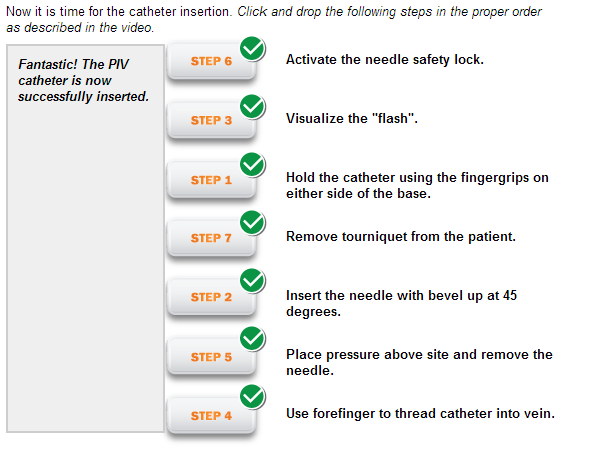
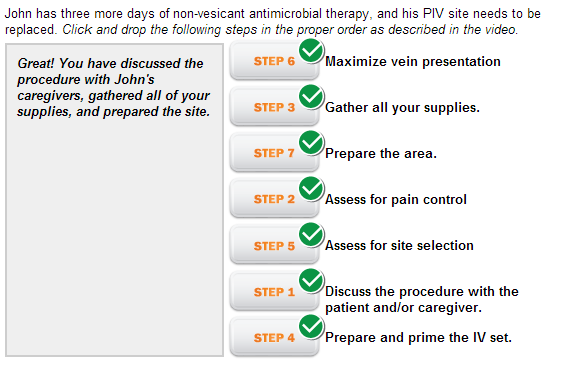
Updating the test to be more usable

Changed region(s): [[0.0, 0.0, 0.9294, 0.9588]]

diff --git a/index.html b/index.html
@@ -6,30 +6,47 @@
         <title>Untitled</title>
         <script src="media/jquery-1.8.min.js" type="text/javascript" charset="utf-8" ></script>
         <script src="media/jquery-ui.custom.min.js" type="text/javascript" charset="utf-8" ></script>
-
-         <link rel="stylesheet" type="text/css" href="media/main.css"/>
+        <link rel="stylesheet" type="text/css" href="media/main.css"/>
         <link href='http://fonts.googleapis.com/css?family=Candal' rel='stylesheet' type='text/css'>
         <script>
-    $(function() {
-   var selectedAnswers = [0,0,0,0,0,0,0], 
-     correctAnswers = [6, 3, 1, 7, 2, 5, 4];
-     selectedQuestion = null;
-   var $sel = {
-     answers: $('#a1, #a2, #a3, #a4, #a5, #a6, #a7'),
-     questions: $('#q1, #q2, #q3, #q4, #q5, #q6, #q7'),
-     ciImage : $('.cwImage1, .cwImage2, .cwImage3, .cwImage4, .cwImage5, .cwImage6, .cwImage7'), 
-     allQuestions: $('.questions'),
-     explanation: $('.explanation'),
-     principles: $('.principles'),
-     exampleContent: $('#exampleContent'),
-     answersCorrect : $('#answersCorrect')
-   }
-
-   $sel.answers.draggable({
-     revert: "invalid"
-     ,start: function(event, ui) {
+  $(function() {
+    var selectedAnswers = [0, 0, 0, 0, 0, 0, 0],
+      correctAnswers = [6, 3, 7, 2, 5, 1, 4],
+      selectedQuestion = null;
+    var $sel = {
+      answers: $('#a1, #a2, #a3, #a4, #a5, #a6, #a7'),
+      questions: $('#q1, #q2, #q3, #q4, #q5, #q6, #q7'),
+      ciImage: $('.cwImage1, .cwImage2, .cwImage3, .cwImage4, .cwImage5, .cwImage6, .cwImage7'),
+      allQuestions: $('.questions'),
+      explanation: $('.explanation'),
+      principles: $('.principles'),
+      exampleContent: $('#exampleContent'),
+      answersCorrect: $('#answersCorrect'),
+      correct: $('#correct'),
+      incorrect: $('#incorrect')
+    }
+    $sel.questions.droppable({
+      hoverClass: 'dropAnswerActive',
+      tolerance: "intersect",
+      accept: $sel.answers,
+      drop: function(event, ui) {
+        ui.helper.removeAttr('dropped', true);
+        selectedQuestion = null;
+        grade(ui.helper, $(this));
+        if(!ui.draggable.data("originalPosition")) {
+          ui.draggable.data("originalPosition", ui.draggable.data("draggable").originalPosition);
+        }
+      },
+      out: function(event, ui) {
+        ui.helper.attr('dropped', true);
+      }
+    });
+    $sel.answers.draggable({
+      revert: "invalid",
+      start: function(event, ui) {
+        // ui.helper.attr('dropped', false);
         var answerNumber = parseInt(ui.helper.attr("number"));
-        for(var s=0; s < selectedAnswers.length; s++) {
+        for(var s = 0; s < selectedAnswers.length; s++) {
           if(selectedAnswers[s] == answerNumber) {
             selectedQuestion = s;
             break;
@@ -37,76 +54,95 @@
         }
         if(selectedQuestion != null) {
           selectedAnswers[selectedQuestion] = 0;
-          $('.cwImage' + (selectedQuestion+1)).removeClass('wrongImage').removeClass('correctImage');
+          $('.cwImage' + (selectedQuestion + 1)).removeClass('wrongImage').removeClass('correctImage');
           $sel.questions.eq(selectedQuestion).droppable('option', 'accept', $sel.answers)
         }
-     }
-     ,stop: function(event, ui) {
-//      console.log("stop")
-        if(selectedQuestion != null) {
-          selectedAnswers[selectedQuestion] = parseInt(ui.helper.attr("number"));
-          grade(ui.helper,  $sel.questions.eq(selectedQuestion));
-        }
-     }
-   });
-
-   $sel.questions.droppable({
-     hoverClass: 'dropAnswerActive',
-     tolerance: "intersect",
-     accept: $sel.answers,
-     drop: function(event, ui) {
-      //console.log("drop")
-      selectedQuestion = null;
-      grade(ui.helper, $(this));
-     }
-   });
-
-   var grade = function($button, $question) {
-    var selectedAnswer = parseInt($button.attr('number'));
-    var answerPosition = parseInt($question.attr('number')) - 1;
-
-    selectedAnswers[answerPosition] = selectedAnswer;
-    $question.droppable('option', 'accept', null);
-
-    // insert positioning
-    $button.offset({
-      top: $question.offset().top - 5,
-      left: $question.offset().left - 8
-    });
-
-    var correctAnswersCount = 0, notAllCorrect = 0;
-    for(var a = 0; a < selectedAnswers.length; a++) {
-      // if question has a answer
-      if(selectedAnswers[a] != 0) {
-        // if answer is correct
-        if(selectedAnswers[a] === correctAnswers[a]) {
-          // turn on icon
-          $('.cwImage' + (a+1)).removeClass('wrongImage').addClass('correctImage');
-          // increment correct answer counter
-          correctAnswersCount++;
-          notAllCorrect++;
-          // if correct answer is also the currently selected button
-          if(selectedAnswer === selectedAnswers[a]) {
-            // prevent from further dragging
-            $button.draggable('disable');
+      },
+      stop: function(event, ui) {
+        if($(this).attr("dropped")) {
+          if(selectedQuestion != null) {
+            selectedAnswers[selectedQuestion] = parseInt(ui.helper.attr("number"));
+            grade(ui.helper, $sel.questions.eq(selectedQuestion));
           }
-        } else {
-          $('.cwImage' + (a+1)).removeClass('correctImage').addClass('wrongImage');
-          notAllCorrect++;
         }
       }
-    }
-    if(correctAnswersCount === 7) {
-      $sel.answersCorrect.show();
-    }
-// if(notAllCorrect === 7){location.reload();}
-  }
- });
+    });
+    var grade = function($button, $question) {
+        var selectedAnswer = parseInt($button.attr('number'));
+        var answerPosition = parseInt($question.attr('number')) - 1;
+        selectedAnswers[answerPosition] = selectedAnswer;
+        $question.droppable('option', 'accept', null);
+        // insert positioning
+        $button.offset({
+          top: $question.offset().top - 5,
+          left: $question.offset().left - 8
+        });
+        var correctAnswersCount = 0,
+          answeredCount = 0;
+        for(var a = 0; a < selectedAnswers.length; a++) {
+          // if question has a answer
+          if(selectedAnswers[a] != 0) {
+            // if answer is correct
+            answeredCount++;
+            if(selectedAnswers[a] === correctAnswers[a]) {
+              // turn on icon
+              $('.cwImage' + (a + 1)).removeClass('wrongImage').addClass('correctImage');
+              // increment correct answer counter
+              correctAnswersCount++;
+              // if correct answer is also the currently selected button
+              if(selectedAnswer === selectedAnswers[a]) {
+                // prevent from further dragging
+                $button.draggable('disable');
+              }
+            } else {
+              $('.cwImage' + (a + 1)).removeClass('correctImage').addClass('wrongImage');
+            }
+          }
+        }
+        if(correctAnswersCount === 7) {
+          $sel.answersCorrect.show();
+          $sel.correct.show();
+        } else if(answeredCount === 7) {
+          // show reset message
+          $sel.answersCorrect.show();
+          $sel.incorrect.show();
+        }
+      }
+      //This function is used to revert/animate the steps back to there orignal location
+    var revertDraggable = function($selector) {
+        $selector.each(function() {
+          var $this = $(this),
+            position = $this.data("originalPosition");
+          if(position) {
+            $this.animate({
+              left: position.left,
+              top: position.top
+            }, 500, function() {
+              $this.data("originalPosition", null);
+            });
+          }
+        });
+      }
+    $('#reset').click(function() {
+      $sel.answersCorrect.hide();
+      $sel.incorrect.hide();
+      //Remove the correct incorrect images
+      $sel.ciImage.removeClass('correctImage').removeClass('wrongImage');
+      // Move buttons back to their original location
+      revertDraggable($sel.answers);
+      // Set all buttons's draggable = true
+      $sel.answers.draggable("option", "disabled", false);
+      // Reset all selectedAnswers = 0
+      selectedAnswers = [0, 0, 0, 0, 0, 0, 0];
+      //Allow the questions to accept all answers again
+      $sel.questions.droppable('option', 'accept', $sel.answers)
+    });
+  });
     </script>
     </head>
     <body>
-    	<div id="wrapper">
-   <div id="textTop">      Now it is time for the catheter insertion. <span class="instructions">Click and drop the following steps in the proper order as described in the video.</div>
+      <div id="wrapper">
+   <div id="textTop">John has three more days of non-vesicant antimicrobial therapy, and his PIV site needs to be replaced. <span class="instructions">Click and drop the following steps in the proper order as described in the video.</div>
        <div id ="allAnswers">
            <div class="answers"><span class="cwImage1"></span><div class="dragAnswer" id="a1" number="1"></div></div>
            <div class="answers"><span class="cwImage2"></span><div class="dragAnswer" id="a2" number="2"></div></div>
@@ -116,29 +152,26 @@
            <div class="answers"><span class="cwImage6"></span><div class="dragAnswer" id="a6" number="6"></div></div>
            <div class="answers"><span class="cwImage7"></span><div class="dragAnswer" id="a7" number="7"></div></div>
        </div>
-
        <div id ="allQuestions">
-              <div class="questionText"><div class="answerTitle">Activate the needle safety lock.</div></div>
+              <div class="questionText"><div class="answerTitle">Maximize vein presentation</div></div>
               <div class="questionAnswer"><div class="dropAnswer" id="q1" number="1"> </div></div> 
-              <div class="questionText"><div class="answerTitle">Visualize the &quot;flash&quot;.</div></div>
+              <div class="questionText"><div class="answerTitle">Gather all your supplies.</div></div>
               <div class="questionAnswer"><div class="dropAnswer" id="q2" number ="2"></div></div>
-              <div class="questionText">  <div class="answerTitle">Hold the catheter using the fingergrips on either side of the base.</div></div>
+              <div class="questionText">  <div class="answerTitle">Prepare the area.</div></div>
               <div class="questionAnswer"><div class="dropAnswer" id="q3" number= "3"></div></div>
-              <div class="questionText"> <div class="answerTitle">Remove tourniquet from the patient.</div></div>
+              <div class="questionText"> <div class="answerTitle">Assess for pain control</div></div>
               <div class="questionAnswer"><div class="dropAnswer" id="q4" number="4"></div></div>
-              <div class="questionText"> <div class="answerTitle">Insert the needle with bevel up at 45 degrees.</div></div>
+              <div class="questionText"> <div class="answerTitle">Assess for site selection</div></div>
               <div class="questionAnswer"><div class="dropAnswer" id ="q5" number="5"></div></div>
-              <div class="questionText"> <div class="answerTitle">Place pressure above site and remove the needle.</div></div>
+              <div class="questionText"> <div class="answerTitle">Discuss the procedure with the patient and/or caregiver.</div></div>
               <div class="questionAnswer"><div class="dropAnswer" id ="q6" number="6"></div></div>
-              <div class="questionText"> <div class="answerTitle">Use forefinger to thread catheter into vein.</div></div>
-              <div class="questionAnswer"><div class="dropAnswer" id ="q7" number="7"></div></div>
+              <div class="questionText"> <div class="answerTitle">Prepare and prime the IV set.</div></div>
+              <div class="questionAnswer"><div class="dropAnswer" id ="q7" number="7"></div></div>    
         </div>
         <div id="answersCorrect"> 
-           Fantastic! The PIV catheter is now successfully inserted.
+            <div id="correct" >Great! You have discussed the procedure with John's caregivers, gathered all of your supplies, and prepared the site.</div>
+            <div id="incorrect">You have selected incorrect answers. Do you want to try again? <center><button id="reset">Reset</button></center></div>
         </div>     
-        
-    	<!--end of wrapper-->
-    	</div>
-      
+      </div>
     </body>
 </html>

diff --git a/main.css b/main.css
@@ -8,25 +8,32 @@ body {
 	height: 430px;
 
 }
-table {
-	border-collapse: collapse;
-}
 
 .dragAnswer {
-	width: 107px;
-	height: 58px;
+	width: 95px;
+	height: 46px;
 	cursor: pointer;
 }
-#allAnswers {float:left;
+#allAnswers {
+float:left;
 width:90px;
+margin-left:120px;
 }
 #allQuestions {
-	float: left;
-	margin:6px 0px 0px 30px;
-	width:430px;
+	float: right;
+	margin-top:6px;
+	width:320px;
 }
-
-
+#doubleLine {
+	font-weight:bold;
+	padding: 3px 0px 0px 30px;
+}
+#incorrect {display:none;}
+#correct{display:none;}
+#reset {
+	padding: 10px 20px;
+	font-weight: bold;
+}
 .instructions {font-style: italic;}
 #a1 {background-image: url('step1.png');}
 #a2 {background-image: url('step2.png');}
@@ -40,7 +47,7 @@ width:90px;
 	width: 82px;
 	height: 37px;
 	background-image: url('drag.png');
-	margin-bottom:13px;
+
 	
 }
 
@@ -57,10 +64,9 @@ width:90px;
 .questionAnswer {
 	width: 90px;
 	margin-bottom:9px;
-	float:right;
 }
 .questionText {
-	width:300px;
+	width:260px;
 	float:right;
 }
 
@@ -70,7 +76,7 @@ width:90px;
     width: 29px;
     height: 28px;
     position: absolute;
-    left:240px;
+    left:300px;
     z-index: 40;
 }
 
@@ -79,7 +85,7 @@ width:90px;
     width: 29px;
     height: 28px;
     position: absolute;
-   left:240px;
+    left:300px;
     z-index: 40;
 }
 .exampleLabel {
@@ -93,9 +99,9 @@ width:90px;
 }
 #answersCorrect {
 	position: absolute;
-	top: 49px;
-	width: 135px;
-	height: 365px;
+	top: 46px;
+	width: 195px;
+	height: 290px;
 	display: none;
     padding:10px;
 	border: 2px solid #cdcdcd;
